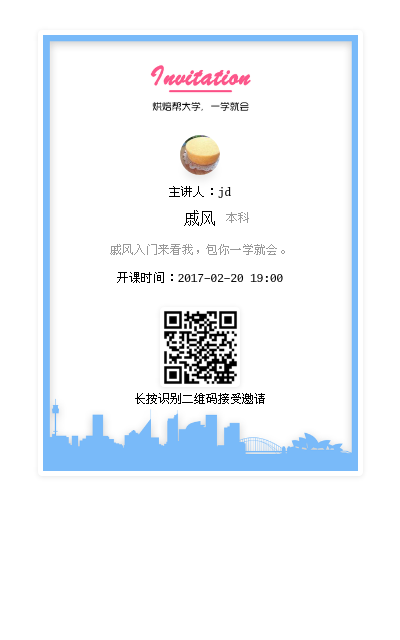
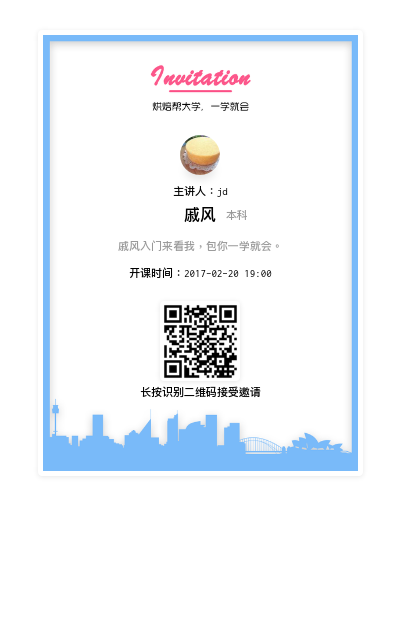
添加支付接口

diff --git a/src/github.com/fishedee/util/testdata/invitation.html b/src/github.com/fishedee/util/testdata/invitation.html
@@ -138,7 +138,8 @@
 		}
 		.fontFamily {
 			/*font-family: Microsoft YaHei, "微软雅黑";*/
-			font-family: "Go Mono";
+			/*font-family: "Go Mono";*/
+			font-family: "inconsolata";
 		}
 	</style>
 </head>

diff --git a/src/github.com/fishedee/sdk/pay/client/alipayApp.go b/src/github.com/fishedee/sdk/pay/client/alipayApp.go
@@ -4,7 +4,6 @@ import (
 	"crypto"
 	"crypto/rand"
 	"crypto/rsa"
-	"crypto/sha256"
 	"encoding/base64"
 	"fmt"
 	"github.com/fishedee/sdk/pay/common"
@@ -13,6 +12,7 @@ import (
 	"strings"
 	"time"
 	"encoding/json"
+	"crypto/sha1"
 )
 
 var defaultAliAppClient *AliAppClient
@@ -43,7 +43,7 @@ func (this *AliAppClient) Pay(charge *common.Charge) (map[string]string, error) 
 	m["timestamp"] = time.Now().Format("2006-01-02 15:04:05")
 	m["version"] = "1.0"
 	m["notify_url"] = charge.CallbackURL
-	m["sign_type"] = "RSA2"
+	m["sign_type"] = "RSA"
 	//m["subject"] = charge.Describe
 	//m["out_trade_no"] = charge.TradeNum
 	//m["product_code"] = "QUICK_MSECURITY_PAY"
@@ -59,35 +59,30 @@ func (this *AliAppClient) Pay(charge *common.Charge) (map[string]string, error) 
 	}
 	m["biz_content"] = string(bizContentJson)
 
-	sign := this.GenSign(m)
-	m["sign_type"] = "RSA2"
-	m["sign"] = sign
+	m["sign"] = this.GenSign(m)
 
 	fmt.Printf("%+v",m)
-	return map[string]string{"orderStr":this.ToURL(m)}, nil
+	return m, nil
 }
 
 // GenSign 产生签名
 func (this *AliAppClient) GenSign(m map[string]string) string {
-	//delete(m, "sign_type")
-	delete(m, "sign")
 	var data []string
 	for k, v := range m {
-		if v == "" {
-			continue
+		if v != "" && k != "sign"{
+			data = append(data, fmt.Sprintf(`%s=%s`, k, v))
 		}
-		data = append(data, fmt.Sprintf(`%s=%s`, k, v))
 	}
 	sort.Strings(data)
 	signData := strings.Join(data, "&")
 	fmt.Println(signData)
-	s := sha256.New()
+	s := sha1.New()
 	_, err := s.Write([]byte(signData))
 	if err != nil {
 		panic(err)
 	}
 	hashByte := s.Sum(nil)
-	signByte, err := this.PrivateKey.Sign(rand.Reader, hashByte, crypto.SHA256)
+	signByte, err := this.PrivateKey.Sign(rand.Reader, hashByte, crypto.SHA1)
 	if err != nil {
 		panic(err)
 	}
@@ -100,13 +95,13 @@ func (this *AliAppClient) CheckSign(signData, sign string) {
 	if err != nil {
 		panic(err)
 	}
-	s := sha256.New()
+	s := sha1.New()
 	_, err = s.Write([]byte(signData))
 	if err != nil {
 		panic(err)
 	}
 	hash := s.Sum(nil)
-	err = rsa.VerifyPKCS1v15(this.PublicKey, crypto.SHA256, hash, signByte)
+	err = rsa.VerifyPKCS1v15(this.PublicKey, crypto.SHA1, hash, signByte)
 	if err != nil {
 		panic(err)
 	}

diff --git a/src/github.com/fishedee/sdk/pay/client/alipayWeb.go b/src/github.com/fishedee/sdk/pay/client/alipayWeb.go
@@ -55,19 +55,16 @@ func (this *AliWebClient) Pay(charge *common.Charge) (map[string]string, error) 
 	m["sign"] = sign
 	m["sign_type"] = "RSA"
 	fmt.Println("sign:", sign)
-	return map[string]string{"url":this.ToURL(m)}, nil
+	return map[string]string{"url": this.ToURL(m)}, nil
 }
 
 // GenSign 产生签名
 func (this *AliWebClient) GenSign(m map[string]string) string {
-	delete(m, "sign_type")
-	delete(m, "sign")
 	var data []string
 	for k, v := range m {
-		if v == "" {
-			continue
+		if v != "" && k != "sign" && k != "sign_type" {
+			data = append(data, fmt.Sprintf(`%s=%s`, k, v))
 		}
-		data = append(data, fmt.Sprintf(`%s=%s`, k, v))
 	}
 	sort.Strings(data)
 	signData := strings.Join(data, "&")

diff --git a/src/github.com/fishedee/sdk/pay/client/wechatWeb.go b/src/github.com/fishedee/sdk/pay/client/wechatWeb.go
@@ -90,14 +90,13 @@ func (this *WechatWebClient) Pay(charge *common.Charge) (map[string]string, erro
 
 // GenSign 产生签名
 func (this *WechatWebClient) GenSign(m map[string]string) string {
-	delete(m, "sign")
-	delete(m, "key")
 	var signData []string
 	for k, v := range m {
-		if v != "" {
+		if v != "" && k != "sign" && k != "key"{
 			signData = append(signData, fmt.Sprintf("%s=%s", k, v))
 		}
 	}
+	fmt.Printf("%+v",signData)
 
 	sort.Strings(signData)
 	signStr := strings.Join(signData, "&")

diff --git a/src/github.com/fishedee/sdk/pay/callback.go b/src/github.com/fishedee/sdk/pay/callback.go
@@ -118,9 +118,11 @@ func WeChatCallback(w http.ResponseWriter, r *http.Request) (*common.WeChatPayRe
 		}
 		signData = append(signData, fmt.Sprintf("%v=%v", k, v))
 	}
-	WeChatPaySign := m["sign"]
+
 	mySign := client.DefaultWechatWebClient().GenSign(m)
-	if mySign != WeChatPaySign {
+	fmt.Printf("\n%+v\n",mySign)
+	fmt.Printf("\n%+v\n",m["sign"])
+	if mySign != m["sign"] {
 		panic(errors.New("签名交易错误"))
 	}
 

diff --git a/src/github.com/fishedee/sdk/pay/client/wechatApp.go b/src/github.com/fishedee/sdk/pay/client/wechatApp.go
@@ -96,11 +96,9 @@ func (this *WechatAppClient) Pay(charge *common.Charge) (map[string]string, erro
 
 // GenSign 产生签名
 func (this *WechatAppClient) GenSign(m map[string]string) string {
-	delete(m, "sign")
-	delete(m, "key")
 	var signData []string
 	for k, v := range m {
-		if v != "" {
+		if v != "" && k != "sign" && k != "key"{
 			signData = append(signData, fmt.Sprintf("%s=%s", k, v))
 		}
 	}
